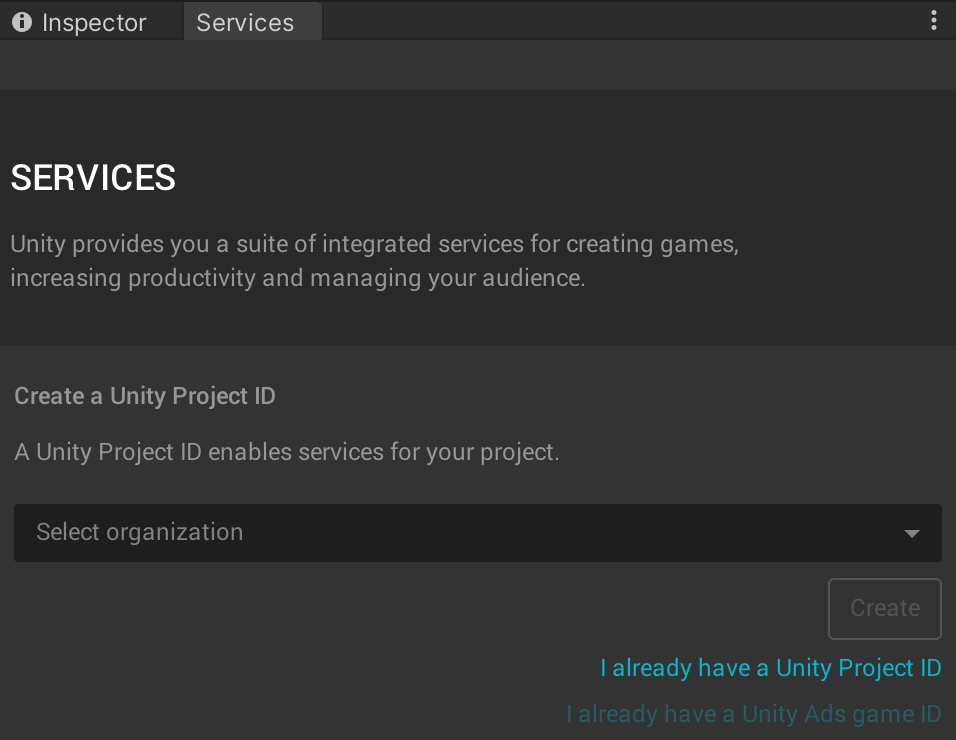
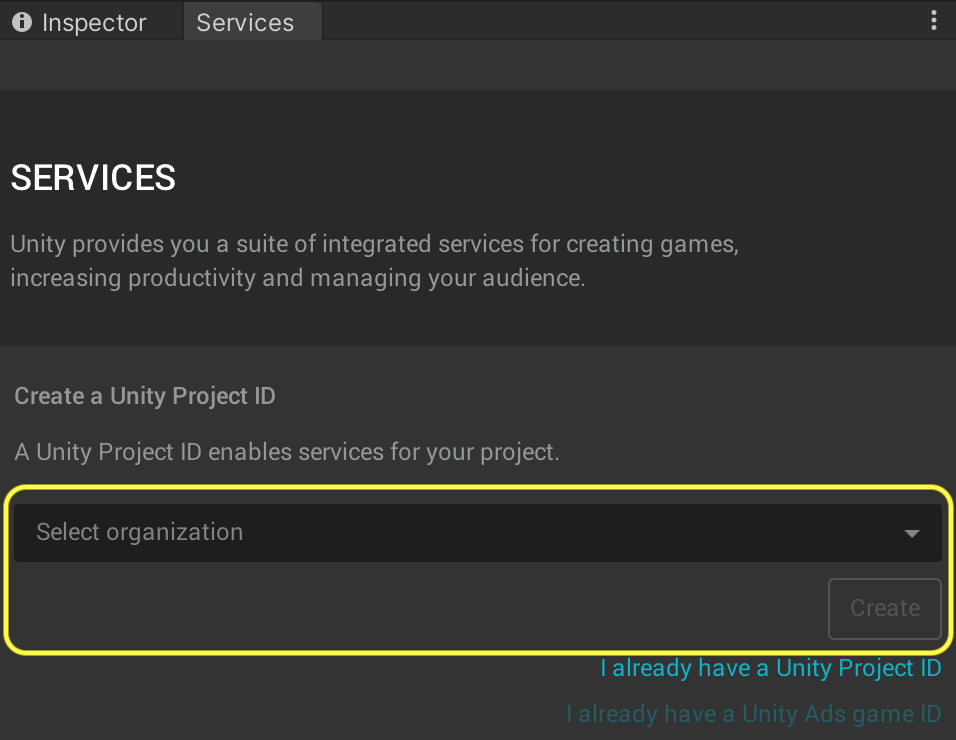
images and phase 3 updates

Changed region(s): [[0.0, 0.6527, 1.0, 0.9014]]

diff --git a/Tutorial/Phase3.md b/Tutorial/Phase3.md
@@ -1,8 +1,55 @@
 # Perception Tutorial
 ## Phase 3: Cloud
 
-In this phase of the tutorial, we will learn how to run our Scene on Unity Simulation. This will allow us to generate a much larger dataset than what is typically plausible on a workstation computer. To 
+In this phase of the tutorial, we will learn how to run our Scene on _**Unity Simulation (USim)**_. This will allow us to generate a much larger dataset than what is typically plausible on a workstation computer.
 
 In order to use Unity Simulation you need to first create a Unity account or login with your existing one. Once logged in, you will also need to sign-up for Unity Simulation. 
 
-* **Action** Click on the _**Cloud**_ button at the top-right corner of Unity Editor.
+* **Action** Click on the _**Cloud**_ button at the top-right corner of Unity Editor to open the _**Services**_ tab. 
+
+<p align="center">
+<img src="Images/cloud_icon.png" width="400"/>
+</p>
+
+If you have not logged in yet, the _**Services**_ tab will display a message noting that you are offline:
+
+<p align="center">
+<img src="Images/signin.png" width="400"/>
+</p>
+
+* **Action**: Click _**Sign in...**_ and follow the steps within the window that opens to sign in or create an account.
+* **Action**: Sign up for a free trial of Unity Simulation [here](https://unity.com/products/unity-simulation).
+
+Unity Simulation is a cloud-based service that makes it possible for you run thousands of instances of Unity builds in order to generate massive amounts of data. 
+
+The USim service is billed on a per-usage basis, and the free trial offers up to $100 of free credit per month. In order to access the free trial, you will need to provide credit card information. **This information will be used to charge your account if you exceed the $100 monthly credit.** A list of hourly and daily rates for various computational resources is available in the page where you first register for USim.
+
+Once you have registered for a free trial, you will be taken to your USim dashboard, where you will be able to observe your usage and billing invoices.
+
+It is now time connect your local Unity project to a cloud project and your simulation on USim.
+
+* **Action**: Return to Unity Editor. In the _**Services**_ tab click _**Select Organization**_ and choose the only available option (which typically has the same name as your Unity username).
+
+If you have used Unity before, you might have set-up multiple organizations for your account. In that case, choose whichever you would like to associate with this project.
+
+<p align="center">
+<img src="Images/create_proj.png" width="400"/>
+</p>
+
+* **Action**: Click _**Create**_ to create a new cloud project and connect your local project to it.
+
+The process of running a project on Unity Simulation involves building it for Linux and then uploading this build, along with a set of parameters, to Unity Simulation. The Perception package simplifies this process by including a dedicated _**Run in USim**_ window that accepts a small number of required parameters and handles everything else automatically.
+
+In order to make sure our builds are compatible with USim, we need to set our project's scripting backend to _**Mono**_ rather than _**IL2CPP**_. The latter is the default option for projects created with newer versions of Unity.
+
+* **Action**: From the top menu bar, select _**Edit -> Project Settings**_.
+* **Action**: In the window that opens, navigate to the _**Player**_ tab, find the _**Scripting Backend**_ settings and change it to _**Mono**_:
+
+<p align="center">
+<img src="Images/mono.png"/>
+</p>
+
+sudo spctl --master-disable
+
+
+need to put in credit card
